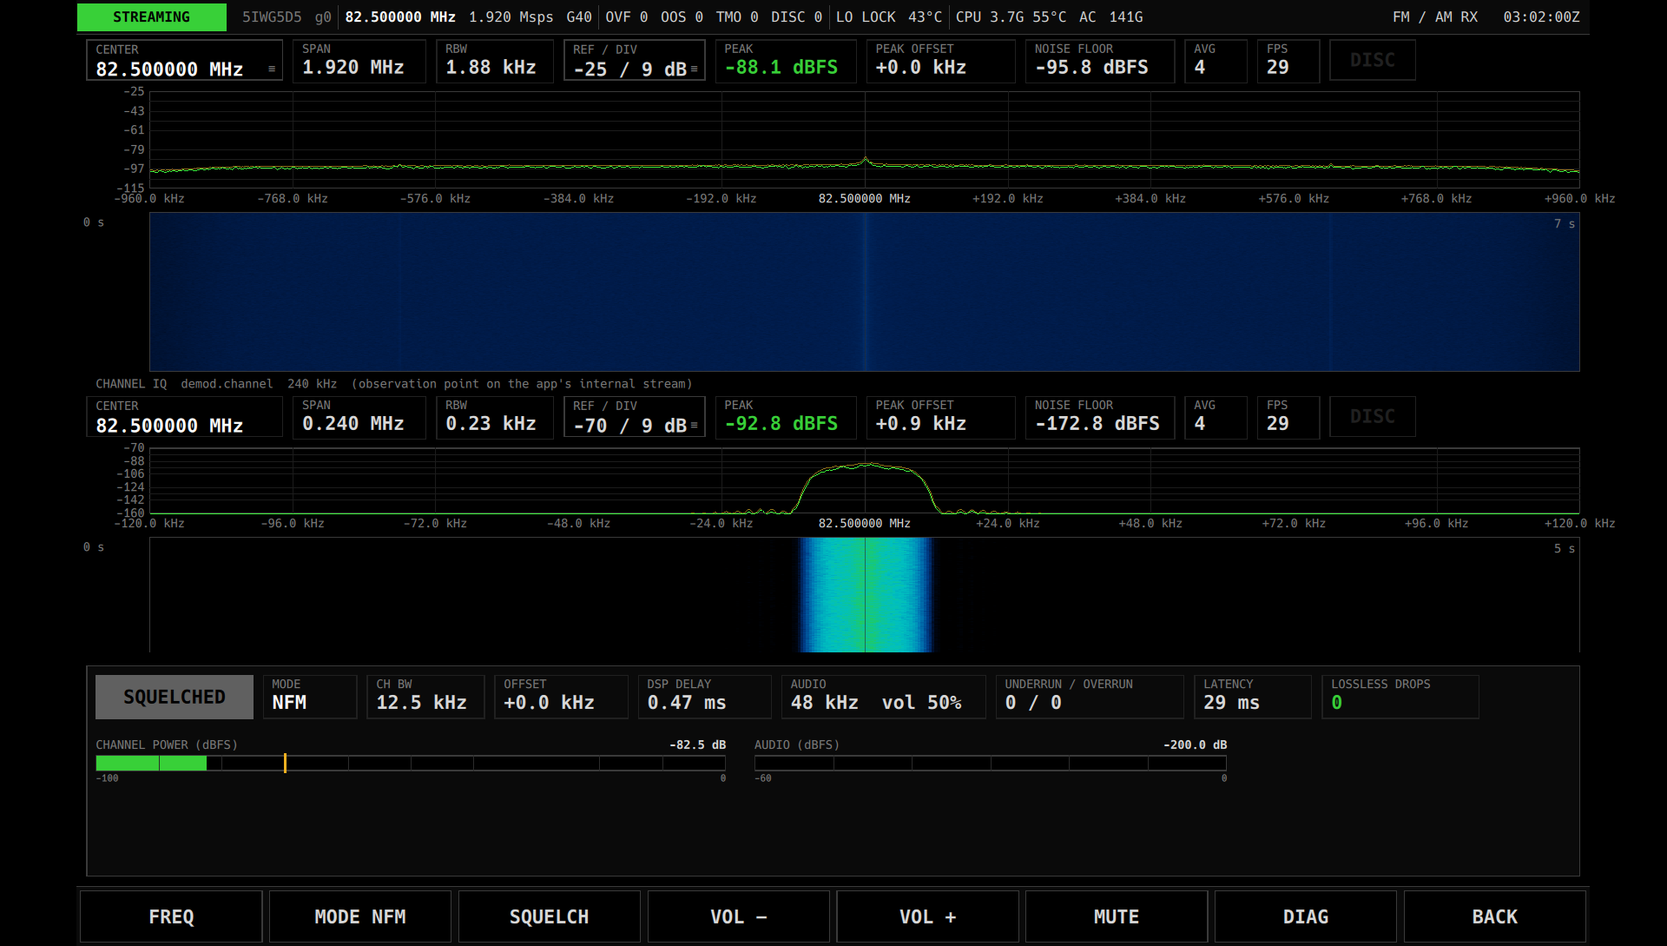
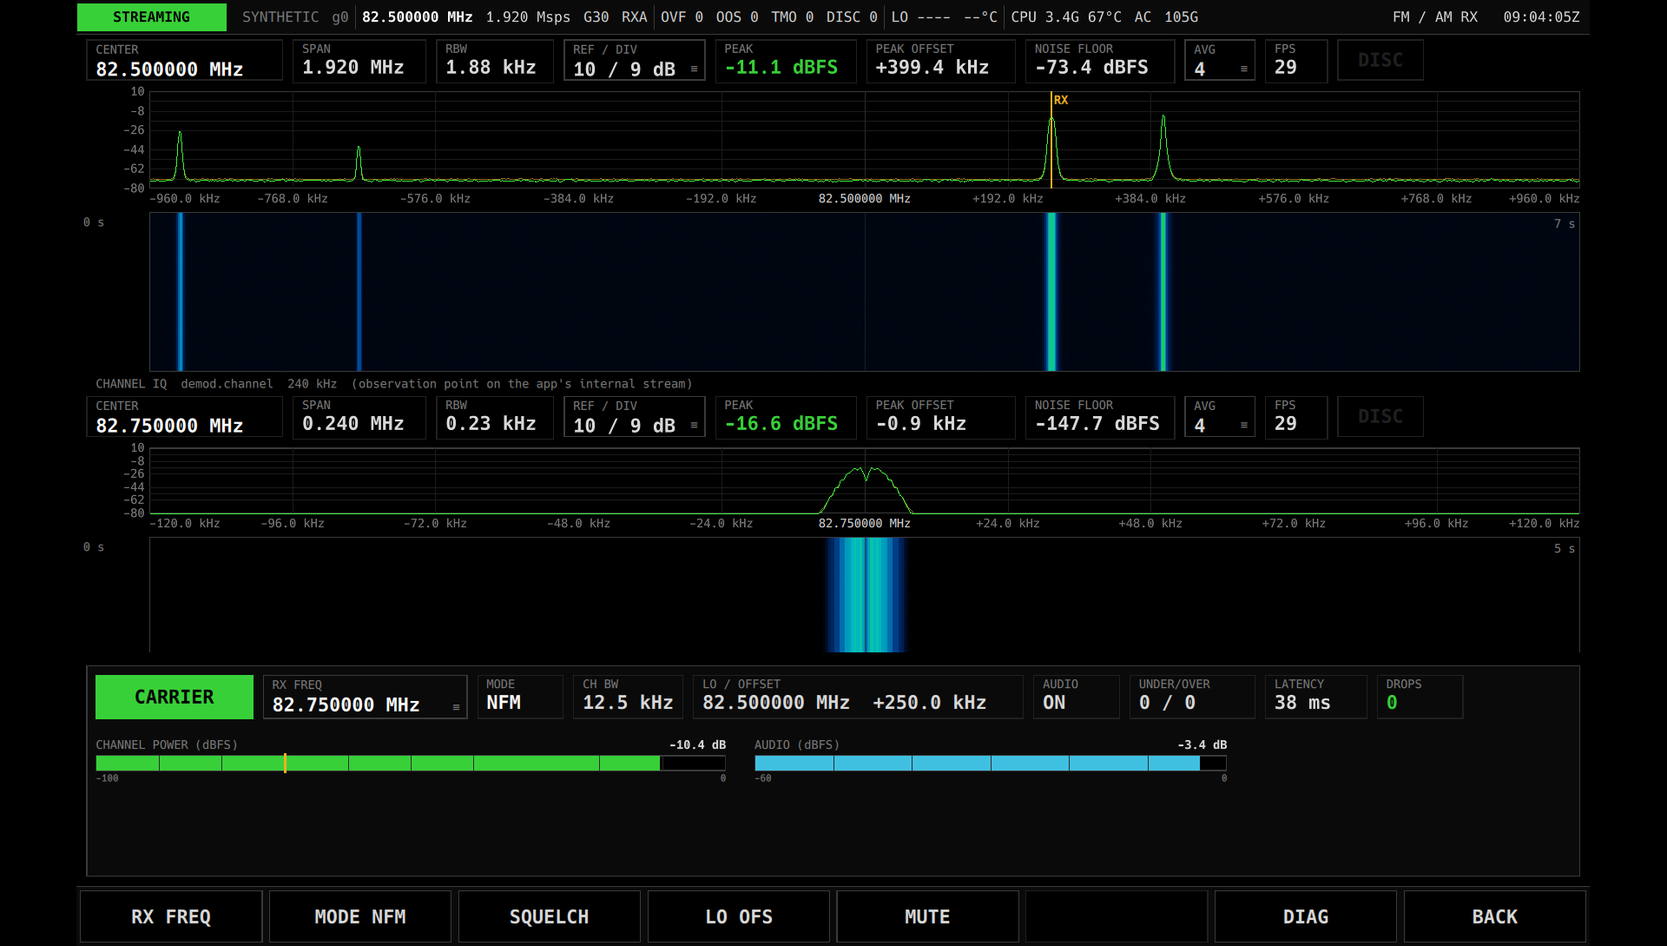
説明書を書く中で見つかった不具合を直す(FM / AM RX の周波数、IQ RECORDER の停止、ADS-B の仮の位置ほか)
- FM / AM RX: シェルの草案 center を LO として読む。RX と読んで LO を引いていたため、止めて起動し直すたびに RX が LO オフセット分ずれていた。MODE を変えてオフセットが帯域に収まらないときは RX を保って LO を移す。周波数入力の題を RX FREQUENCY に、DIAG キーを追加
- IQ RECORDER: 書き込みに失敗したら録音を止めて理由を出す(RECORDING のまま書けていなかった)。録音先の空きが 1 GB を切ったら止める。ディスクの空きは録音先で測る(Core の disk path を --record-dir に)
- ADS-B: 基準位置からの局所解は仮の位置とし、偶奇ペアの大域解が出たら置き換える(基準位置が古いと別のゾーンに解け、その誤りが局所解で続いていた)。300 km より遠い局所解は受け入れない
- SpectrumView: AVG をタップで切り替えられるようにする(保存されるのに変える手段が SPECTRUM 以外に無かった)
- docs: spear-adsb-decode の --fix を実際の --no-fix に、README の SPECTRUM の説明、ADS-B の説明文(polar plot → map)、demod.png を撮り直し、説明書を合わせる

diff --git a/apps/demod/DemodPage.qml b/apps/demod/DemodPage.qml
@@ -15,10 +15,10 @@ Item {
     readonly property var softKeys: [
         { label: "RX FREQ", action: "freq" }, { label: "MODE " + app.mode, action: "mode" },
         { label: "SQUELCH", action: "sq" }, { label: "LO OFS", action: "lo" },
-        { label: "MUTE", action: "mute", active: app.mute } ]
+        { label: "MUTE", action: "mute", active: app.mute }, null, { label: "DIAG", action: "diag" } ]
     function softKey(action) {
         switch (action) {
-        case "freq": ui.askFreq(page.rxFreq, (v) => app.tuneRx(v)); break
+        case "freq": ui.askFreq(page.rxFreq, (v) => app.tuneRx(v), "RX FREQUENCY"); break
         case "lo": ui.askOffset(app.loOffsetHz, (v) => app.loOffsetHz = v); break
         case "mode": app.cycleMode(); break
         case "sq": ui.askLevel("SQUELCH LEVEL", "dBFS", -150, 0, app.squelchDb, (v) => app.squelchDb = v); break
@@ -59,7 +59,7 @@ Item {
                 Text { anchors.centerIn: parent; text: app.squelchOpen ? "CARRIER" : "SQUELCHED"; color: "#000000"
                        font.family: Theme.mono; font.pixelSize: Theme.fsLarge; font.bold: true }
             }
-            ValueField { label: "RX FREQ"; value: Theme.fmtFreq(page.rxFreq); width: 260; height: 56; onActivated: ui.askFreq(page.rxFreq, (v) => app.tuneRx(v)) }
+            ValueField { label: "RX FREQ"; value: Theme.fmtFreq(page.rxFreq); width: 260; height: 56; onActivated: ui.askFreq(page.rxFreq, (v) => app.tuneRx(v), "RX FREQUENCY") }
             Readout { label: "MODE"; value: app.mode; width: 110; valueColor: Theme.textBright }
             Readout { label: "CH BW"; value: (app.channelBandwidth / 1e3).toFixed(1) + " kHz"; width: 140 }
             Readout { label: "LO / OFFSET"; value: Theme.fmtFreq(sys.centerFreq) + "  " + Theme.fmtHz(app.channelOffsetHz); width: 420 }

diff --git a/gui/qml/Main.qml b/gui/qml/Main.qml
@@ -35,7 +35,7 @@ Window {
     // ---- App ページから呼べるシェルのサービス ----
     QtObject {
         id: uiServices
-        function askFreq(current, cb) { win.askFreq(current, cb) }
+        function askFreq(current, cb, title) { win.askFreq(current, cb, title) }   // title 省略時は CENTER FREQUENCY
         function askRate(current, cb) { win.askRate(current, cb) }
         function askGain(current, cb) { win.askGain(current, cb) }
         function askRef(current, cb) { win.askRef(current, cb) }
@@ -168,8 +168,8 @@ Window {
     }
 
     // ---- 数値入力の定型(App からは ui.ask*() で呼ぶ) ----
-    function askFreq(current, cb) {
-        entry.title = "CENTER FREQUENCY"; entry.minimum = 70e6; entry.maximum = 6e9
+    function askFreq(current, cb, title) {
+        entry.title = title !== undefined ? title : "CENTER FREQUENCY"; entry.minimum = 70e6; entry.maximum = 6e9
         entry.units = [ { label: "GHz", factor: 1e9 }, { label: "MHz", factor: 1e6 }, { label: "kHz", factor: 1e3 }, { label: "Hz", factor: 1 } ]
         entry.displayFactor = 1e6; entry.displayUnit = "MHz"; entry.displayDecimals = 6; entry.allowNegative = false
         entry.callback = cb; entry.open(current)

diff --git a/widgets/qml/SpectrumView.qml b/widgets/qml/SpectrumView.qml
@@ -40,7 +40,10 @@ Item {
         Readout { label: "PEAK"; value: spec.peakDb > -900 ? spec.peakDb.toFixed(1) + " dBFS" : "--"; valueColor: Theme.green; width: 180 }
         Readout { label: "PEAK OFFSET"; value: spec.peakDb > -900 ? Theme.fmtHz(spec.peakOffsetHz) : "--"; width: 190 }
         Readout { label: "NOISE FLOOR"; value: spec.noiseFloorDb > -900 ? spec.noiseFloorDb.toFixed(1) + " dBFS" : "--"; width: 190 }
-        Readout { label: "AVG"; value: page.source ? page.source.averaging.toString() : "-"; width: 80 }
+        // 平均回数はタップで 1 → 2 → 4 → 8 → 16 → 1。どの App の表示でも変えられる(各 App が保存する値)
+        ValueField { label: "AVG"; value: page.source ? page.source.averaging.toString() : "-"; width: 90; height: 52; valueColor: Theme.text
+                     editable: page.source !== null
+                     onActivated: page.source.averaging = page.source.averaging >= 16 ? 1 : page.source.averaging * 2 }
         Readout { label: "FPS"; value: spec.fps.toFixed(0); width: 80 }
         Rectangle {
             width: 110; height: 52; color: spec.discontinuity ? Theme.red : "transparent"; border.color: Theme.lineDim; border.width: 1

diff --git a/apps/recorder/RecorderPage.qml b/apps/recorder/RecorderPage.qml
@@ -58,7 +58,8 @@ Item {
             Readout { label: "SAMPLES"; value: app.samplesWritten.toLocaleString(Qt.locale("C"), "f", 0); width: 260 }
             Readout { label: "WRITTEN"; value: (app.bytesWritten / 1e6).toFixed(1) + " MB"; width: 200 }
             Readout { label: "RATE"; value: Theme.fmtRate(sys.sampleRate) + "  (" + (sys.sampleRate * 4 / 1e6).toFixed(1) + " MB/s)"; width: 330 }
-            Readout { label: "DISK FREE"; value: sys.diskFreeGb.toFixed(1) + " GB"; width: 200; valueColor: sys.diskFreeGb < 2 ? Theme.red : Theme.text }
+            // 録音先の空き。1 GB を切ると録音は自動で止まる
+            Readout { label: "DISK FREE"; value: app.diskFreeGb >= 0 ? app.diskFreeGb.toFixed(1) + " GB" : "--"; width: 200; valueColor: app.diskFreeGb >= 0 && app.diskFreeGb < 2 ? Theme.red : Theme.text }
         }
         // Lossless 不変条件 (§4.3): drop は 0 でなければならない。0 以外は赤で即座に分かる
         Rectangle {

diff --git a/apps/adsb/AdsbPage.qml b/apps/adsb/AdsbPage.qml
@@ -48,7 +48,7 @@ Item {
         onAskRef: ui.askRef(app.view.dbMax, (v) => { app.view.dbMin = v - 90; app.view.dbMax = v })
     }
 
-    // ---- 中: 表 + 極座標 ----
+    // ---- 中: 表 + 地図 ----
     Item {
         id: middle
         anchors.top: wide.bottom; anchors.left: parent.left; anchors.right: parent.right

diff --git a/apps/adsb/aircraft.cpp b/apps/adsb/aircraft.cpp
@@ -22,19 +22,21 @@ Aircraft& AircraftTable::get_or_create(uint32_t icao, const Frame& f, bool* crea
     return list_.back();
 }
 
-bool AircraftTable::resolve_position(Aircraft& a, const Message& m, double t, Position* out) {
+AircraftTable::Fix AircraftTable::resolve_position(Aircraft& a, const Message& m, double t, Position* out) {
     auto& slot = m.cpr_odd ? a.cpr_odd : a.cpr_even;
     slot = {m.cpr_lat, m.cpr_lon, t};
-    // 前回位置があれば局所解(速く、ゾーン境界に強い)。無ければ偶奇ペアの大域解、それも無ければ基準位置からの局所解
-    if (a.position) return cpr_local(m.cpr_lat, m.cpr_lon, m.cpr_odd, *a.position, out);
+    // 確かめた前回位置があれば局所解(速く、ゾーン境界に強い)。無ければ偶奇ペアの大域解。
+    // それも無ければ仮の前回位置、最後に基準位置からの局所解(どちらも仮の位置。大域解が出るまで毎回ペアを試す)
+    if (a.position && !a.position_from_ref) return cpr_local(m.cpr_lat, m.cpr_lon, m.cpr_odd, *a.position, out) ? Fix::LocalPrev : Fix::None;
     const auto& other = m.cpr_odd ? a.cpr_even : a.cpr_odd;
     if (std::fabs(t - other.t_s) <= cfg_.cpr_pair_s) {
         const bool ok = m.cpr_odd ? cpr_global(other.lat, other.lon, m.cpr_lat, m.cpr_lon, true, out)
                                   : cpr_global(m.cpr_lat, m.cpr_lon, other.lat, other.lon, false, out);
-        if (ok) return true;
+        if (ok) return Fix::Global;
     }
-    if (ref_) return cpr_local(m.cpr_lat, m.cpr_lon, m.cpr_odd, *ref_, out);
-    return false;
+    if (a.position) return cpr_local(m.cpr_lat, m.cpr_lon, m.cpr_odd, *a.position, out) ? Fix::LocalPrev : Fix::None;
+    if (ref_ && cpr_local(m.cpr_lat, m.cpr_lon, m.cpr_odd, *ref_, out) && distance_km(*ref_, *out) <= kRefLocalMaxKm) return Fix::LocalRef;
+    return Fix::None;
 }
 
 const Aircraft& AircraftTable::update(const Frame& f) {
@@ -57,7 +59,8 @@ const Aircraft& AircraftTable::update(const Frame& f) {
     if (created && cb_.created) cb_.created(a, f);
     if (m.has_cpr) {
         Position p;
-        if (resolve_position(a, m, f.t_s, &p)) {
+        if (const Fix fix = resolve_position(a, m, f.t_s, &p); fix != Fix::None) {
+            const bool provisional = fix == Fix::LocalRef || (fix == Fix::LocalPrev && a.position_from_ref);
             bool ok = true;
             if (ref_) {
                 const double d = distance_km(*ref_, p);
@@ -67,12 +70,15 @@ const Aircraft& AircraftTable::update(const Frame& f) {
             if (ok) {
                 const bool first = !a.position.has_value();
                 a.position = p;
+                a.position_from_ref = provisional;
                 a.last_position_s = f.t_s;
                 ++a.positions;
                 ++total_positions_;
                 if (first && cb_.first_position) cb_.first_position(a, f);
             } else {
                 ++rejected_positions_;
+                // 大域解が範囲外なら、仮の位置(基準位置からの局所解)は別のゾーンの取り違えだった。捨てて取り直す
+                if (a.position_from_ref) { a.position.reset(); a.distance_km.reset(); a.bearing_deg.reset(); a.position_from_ref = false; }
                 if (!a.position) { a.cpr_even = {}; a.cpr_odd = {}; }   // 怪しいペアは捨てて取り直す
             }
         }

diff --git a/apps/tests/test_apps.cpp b/apps/tests/test_apps.cpp
@@ -112,7 +112,7 @@ TEST(Apps, TemplateLifecycle) {
 TEST(Apps, DemodRecoversFmTone) {
     Core core(".");
     SyntheticSignal sig;
-    sig.fm = {250e3, 0.5, 2.5e3, 1e3, true};   // 合成源の中心から +250 kHz(= App の既定 LO offset)
+    sig.fm = {250e3, 0.5, 2.5e3, 1e3, true};   // 合成源の中心(LO)から +250 kHz(= App の既定 LO offset)
     sig.noise_amplitude = 0.002;
     core.set_source(std::make_unique<SyntheticSource>(&core.events(), sig));
     auto app = std::make_shared<apps::DemodApp>(appfw::AppInfo{"demod", "FM / AM RX", "", Direction::RX, ""});
@@ -124,9 +124,9 @@ TEST(Apps, DemodRecoversFmTone) {
     app->setSquelchDb(-90);
     ASSERT_TRUE(core.run_app(app));
     EXPECT_DOUBLE_EQ(core.source().config().sample_rate, 1.92e6);
-    // 宣言 100 MHz は RX 周波数。LO は 250 kHz 下に置かれ、RX 周波数は導出値として一致する
-    EXPECT_DOUBLE_EQ(core.source().config().center_freq, 100e6 - 250e3);
-    EXPECT_DOUBLE_EQ(app->rxFreq(), 100e6);
+    // 草案の 100 MHz は LO。RX 周波数は LO + 250 kHz の導出値
+    EXPECT_DOUBLE_EQ(core.source().config().center_freq, 100e6);
+    EXPECT_DOUBLE_EQ(app->rxFreq(), 100e6 + 250e3);
     auto sub = app->audio_stream().subscribe("test", DeliveryPolicy::Lossless, 256);
     std::vector<float> audio;
     const auto t0 = std::chrono::steady_clock::now();
@@ -160,6 +160,24 @@ TEST(Apps, DemodRecoversFmTone) {
     sub.reset();   // テストの購読が持つ BlockRef を App の pool より先に返す(stop で pool が消える)
     core.stop_app();
     EXPECT_EQ(core.rx().consumer_count(), 0u);
+    // 停止後、シェルは草案を Core の RF(LO)に戻して次の起動に渡す。起動し直しても RX 周波数はずれない
+    app->set_rf_config(core.source().config());
+    EXPECT_DOUBLE_EQ(app->declare_rf_config().center_freq, 100e6);
+    EXPECT_DOUBLE_EQ(app->rxFreq(), 100e6 + 250e3);
+}
+
+// mode を変えて offset の上限(±(rate/2 − bw))を超えるときは、RX 周波数を保ったまま LO を移す
+TEST(Apps, DemodModeChangeKeepsChannelInSpan) {
+    auto app = std::make_shared<apps::DemodApp>(appfw::AppInfo{"demod", "FM / AM RX", "", Direction::RX, ""});
+    RfConfig c; c.center_freq = 100e6; c.sample_rate = 1.92e6;
+    app->set_rf_config(c);
+    app->setMode("NFM");
+    app->setLoOffsetHz(900e3);                  // NFM の上限 960 − 12.5 = 947.5 kHz 以内
+    const double rx = app->rxFreq();
+    EXPECT_DOUBLE_EQ(app->channelOffsetHz(), 900e3);
+    app->setMode("WFM");                        // WFM の上限 960 − 200 = 760 kHz
+    EXPECT_DOUBLE_EQ(app->channelOffsetHz(), 760e3);
+    EXPECT_DOUBLE_EQ(app->rxFreq(), rx);
 }
 
 int main(int argc, char** argv) {

diff --git a/apps/recorder/recorder_app.cpp b/apps/recorder/recorder_app.cpp
@@ -20,6 +20,7 @@ double RecorderApp::seconds() const {
 
 void RecorderApp::on_start(Core& core) {
     SpectrumApp::on_start(core);
+    update_disk_free();
     timer_ = startTimer(250);
 }
 
@@ -29,14 +30,29 @@ void RecorderApp::on_stop() {
     SpectrumApp::on_stop();
 }
 
+void RecorderApp::update_disk_free() {
+    std::error_code ec;
+    const auto sp = std::filesystem::space(dir_, ec);
+    disk_free_gb_ = ec ? -1 : static_cast<double>(sp.available) / 1e9;
+}
+
 void RecorderApp::timerEvent(QTimerEvent*) {
-    if (recording_) Q_EMIT recordingChanged();
+    update_disk_free();
+    if (recording_) {
+        // 書き込みに失敗した(ディスクが一杯など)、または空きが少なくなったら録音を止めて理由を出す。
+        // 止めずに RECORDING のままにすると、書けていないことが画面から分からない
+        if (rec_ && !rec_->ok()) { stopRecording(); last_error_ = "write failed (disk full?) — recording stopped"; }
+        else if (disk_free_gb_ >= 0 && disk_free_gb_ < kStopBelowGb) { stopRecording(); last_error_ = QString("disk free below %1 GB — recording stopped").arg(kStopBelowGb); }
+    }
+    Q_EMIT recordingChanged();
 }
 
 void RecorderApp::record() {
     if (recording_ || !core()) return;
     std::error_code ec;
     std::filesystem::create_directories(dir_, ec);
+    update_disk_free();
+    if (disk_free_gb_ >= 0 && disk_free_gb_ < kStopBelowGb) { last_error_ = QString("disk free below %1 GB — not recording").arg(kStopBelowGb); Q_EMIT recordingChanged(); return; }
     path_ = dir_ + "/rec_" + QDateTime::currentDateTimeUtc().toString("yyyyMMdd_HHmmss").toStdString();
     auto& rx = core()->rx();
     rec_ = std::make_unique<SigmfRecorder>(path_, rx.meta(), core()->source().config(), &core()->events(), core()->source().lo_correction_ppm());
@@ -45,7 +61,8 @@ void RecorderApp::record() {
     sub_ = rx.subscribe("recorder", DeliveryPolicy::Lossless, 256);
     stop_ = false;
     th_ = std::thread([this] {
-        while (!stop_) if (auto d = sub_->pop(100ms)) rec_->write(*d);
+        // 書き込みに失敗したら抜ける(後始末は GUI thread の timerEvent が stopRecording で行う)
+        while (!stop_ && rec_->ok()) if (auto d = sub_->pop(100ms)) rec_->write(*d);
     });
     recording_ = true;
     Q_EMIT recordingChanged();

diff --git a/apps/adsb/aircraft.hpp b/apps/adsb/aircraft.hpp
@@ -1,5 +1,6 @@
 // 航空機表 — 受理フレームを ICAO ごとに集約する(純 C++)。
-// CPR は偶奇ペア(10 s 以内)の大域解を最初に求め、以後は前回位置(無ければ基準位置)からの局所解。
+// CPR は偶奇ペア(10 s 以内)の大域解を最初に求め、以後は前回位置からの局所解。ペアが無いうちは基準位置からの局所解を
+// 仮の位置にし、大域解が出たら置き換える(基準位置が古い・遠いと局所解は別のゾーンに解けるため。仮の位置から局所解を続けると誤りが残る)。
 // 基準位置(地上局)があれば距離・方位を出し、max_range_km を超える位置は捨てる(大域解の多義性・ビット誤りの保険)。
 #pragma once
 
@@ -25,6 +26,7 @@ struct Aircraft {
     bool track_is_heading = false;
     std::optional<int> vr_fpm;
     std::optional<Position> position;
+    bool position_from_ref = false;          // position が基準位置からの局所解に由来し、まだ大域解で確かめていない
     std::optional<double> distance_km, bearing_deg;   // 基準位置があるとき
     bool on_ground = false;
     uint64_t messages = 0;                   // 受理フレーム数(DF 問わず)
@@ -68,10 +70,14 @@ public:
     const Aircraft* find(uint32_t icao) const;
     uint64_t total_positions() const { return total_positions_; }
     uint64_t rejected_positions() const { return rejected_positions_; }
+    // 基準位置からの局所解を受け入れる距離の上限。局所解は基準位置から緯度ゾーンの半分(空中: 約 333 km)以内に必ず解けるので、
+    // それに近い解は別のゾーンの取り違えかもしれない。余裕を見てここで切り、それより遠い機体は偶奇ペアの大域解を待つ
+    static constexpr double kRefLocalMaxKm = 300;
 
 private:
     Aircraft& get_or_create(uint32_t icao, const Frame& f, bool* created);
-    bool resolve_position(Aircraft& a, const Message& m, double t, Position* out);
+    enum class Fix { None, Global, LocalPrev, LocalRef };
+    Fix resolve_position(Aircraft& a, const Message& m, double t, Position* out);
     TableConfig cfg_;
     std::optional<Position> ref_;
     Callbacks cb_;

diff --git a/apps/demod/demod_app.cpp b/apps/demod/demod_app.cpp
@@ -73,20 +73,26 @@ RfConfig DemodApp::declare_rf_config() const {
     RfConfig c = GuiApp::declare_rf_config();
     c.sample_rate = kRfRate;            // 音声 48 kHz へ整数比で落とせる rate を App が決める
     c.bandwidth = kRfRate;
-    // シェルの草案 center を「聞きたい周波数」と解釈し、LO をそこから lo_offset 離す
-    const double max_off = kRfRate / 2 - params_for(mode_).bandwidth_hz;
-    const double off = std::clamp(lo_offset_hz_, -max_off, max_off);
-    const_cast<DemodApp*>(this)->offset_hz_ = off;
-    c.center_freq -= off;
+    // シェルの草案 center は LO(草案は「最後に Core が運転していた RF」= LO の写し)。RX 周波数 = LO + lo_offset。
+    // 草案を RX 周波数と読んで LO を引くと、止めて起動し直すたびに RX 周波数が lo_offset ずつずれる(草案は停止時に LO へ戻るため)
+    const_cast<DemodApp*>(this)->offset_hz_ = clamped_offset();
     return c;
 }
 
 void DemodApp::setMode(const QString& m) {
     const std::string v = m.toStdString();
     if (v != "WFM" && v != "NFM" && v != "AM") return;
+    const double rx = rxFreq();
     mode_ = v;
     rebuild_ = true;
+    // 帯域幅が変わると offset の上限(±(rate/2 − bw))も変わる。収まらなくなったら RX 周波数を保って LO を移す
+    if (clamped_offset() != offset_hz_) { tuneRx(rx); return; }
     Q_EMIT modeChanged();
+}
+
+double DemodApp::clamped_offset() const {
+    const double max_off = kRfRate / 2 - params_for(mode_).bandwidth_hz;
+    return std::clamp(lo_offset_hz_, -max_off, max_off);
 }
 
 double DemodApp::rxFreq() const {
@@ -96,8 +102,7 @@ double DemodApp::rxFreq() const {
 
 void DemodApp::tuneRx(double rx_hz) {
     // LO はチャネルから lo_offset 離す。offset は span 内(±(rate/2 − bw))に収める
-    const double max_off = kRfRate / 2 - params_for(mode_).bandwidth_hz;
-    const double off = std::clamp(lo_offset_hz_, -max_off, max_off);
+    const double off = clamped_offset();
     offset_hz_ = off;
     rebuild_ = true;
     if (core()) core()->source().retune(rx_hz - off);

diff --git a/apps/adsb/tests/test_receiver.cpp b/apps/adsb/tests/test_receiver.cpp
@@ -178,6 +178,31 @@ TEST(AdsbReceiver, AircraftTableResolvesPositionFromPair) {
     EXPECT_EQ(t2.size(), 0u);
 }
 
+// 基準位置が実際の受信場所から遠い(移動したのに古いまま)と、基準位置からの局所解は別の緯度ゾーンに解ける。
+// それは仮の位置として扱い、偶奇ペアの大域解が出たら置き換える
+TEST(AdsbReceiver, AircraftTableReplacesRefLocalFixWithGlobal) {
+    auto mk = [](const std::string& hex, double t) { Frame f; from_hex(hex, f.bytes, &f.nbits); f.msg = decode(f.bytes, f.nbits); f.t_s = t; f.accepted = true; f.rssi_db = -30; return f; };
+    AircraftTable table;
+    table.set_reference(Position{56.0, 4.0});   // 実際の機体(52.27, 3.92)から約 420 km 北
+    table.update(mk("8D40621D58C382D690C8AC2863A7", 1.0));   // even のみ → 基準位置からの局所解(1 ゾーン北に解ける)
+    const Aircraft* a = table.find(0x40621D);
+    ASSERT_NE(a, nullptr);
+    ASSERT_TRUE(a->position.has_value());
+    EXPECT_NEAR(a->position->lat, 58.257, 1e-2);
+    EXPECT_TRUE(a->position_from_ref);
+    table.update(mk("8D40621D58C386435CC412692AD6", 1.5));   // odd → ペアの大域解で置き換える
+    ASSERT_TRUE(a->position.has_value());
+    EXPECT_NEAR(a->position->lat, 52.26578, 1e-3);
+    EXPECT_FALSE(a->position_from_ref);
+    // 基準位置から遠すぎる局所解は受け入れない(大域解を待つ)
+    AircraftTable far;
+    far.set_reference(Position{55.0, 10.0});
+    far.update(mk("8D40621D58C382D690C8AC2863A7", 1.0));
+    const Aircraft* b = far.find(0x40621D);
+    ASSERT_NE(b, nullptr);
+    if (b->position) EXPECT_LE(distance_km(Position{55.0, 10.0}, *b->position), AircraftTable::kRefLocalMaxKm);
+}
+
 // ---- golden: 実機録音 ----
 namespace {
 std::string golden_base() {

diff --git a/apps/recorder/recorder_app.hpp b/apps/recorder/recorder_app.hpp
@@ -20,6 +20,7 @@ class RecorderApp final : public SpectrumApp {
     Q_PROPERTY(double droppedBlocks READ droppedBlocks NOTIFY recordingChanged)
     Q_PROPERTY(double bytesWritten READ bytesWritten NOTIFY recordingChanged)
     Q_PROPERTY(QString lastError READ lastError NOTIFY recordingChanged)
+    Q_PROPERTY(double diskFreeGb READ diskFreeGb NOTIFY recordingChanged)   // 録音先の空き(-1 = 不明)
 public:
     explicit RecorderApp(appfw::AppInfo info, QObject* parent = nullptr);
     ~RecorderApp() override;
@@ -34,6 +35,8 @@ public:
     double droppedBlocks() const { return sub_ ? static_cast<double>(sub_->stats().dropped_blocks) : 0; }
     double bytesWritten() const { return samplesWritten() * 4; }
     QString lastError() const { return last_error_; }
+    double diskFreeGb() const { return disk_free_gb_; }
+    static constexpr double kStopBelowGb = 1.0;   // 録音先の空きがこれを切ったら録音を止める(ディスクを使い切らない)
 
     Q_INVOKABLE void record();          // 新しいファイルで録音開始
     Q_INVOKABLE void stopRecording();
@@ -54,7 +57,9 @@ private:
     std::atomic<bool> stop_{false};
     bool recording_ = false;
     QString last_error_;
+    double disk_free_gb_ = -1;
     int timer_ = 0;
+    void update_disk_free();
 };
 
 } // namespace spear::apps
